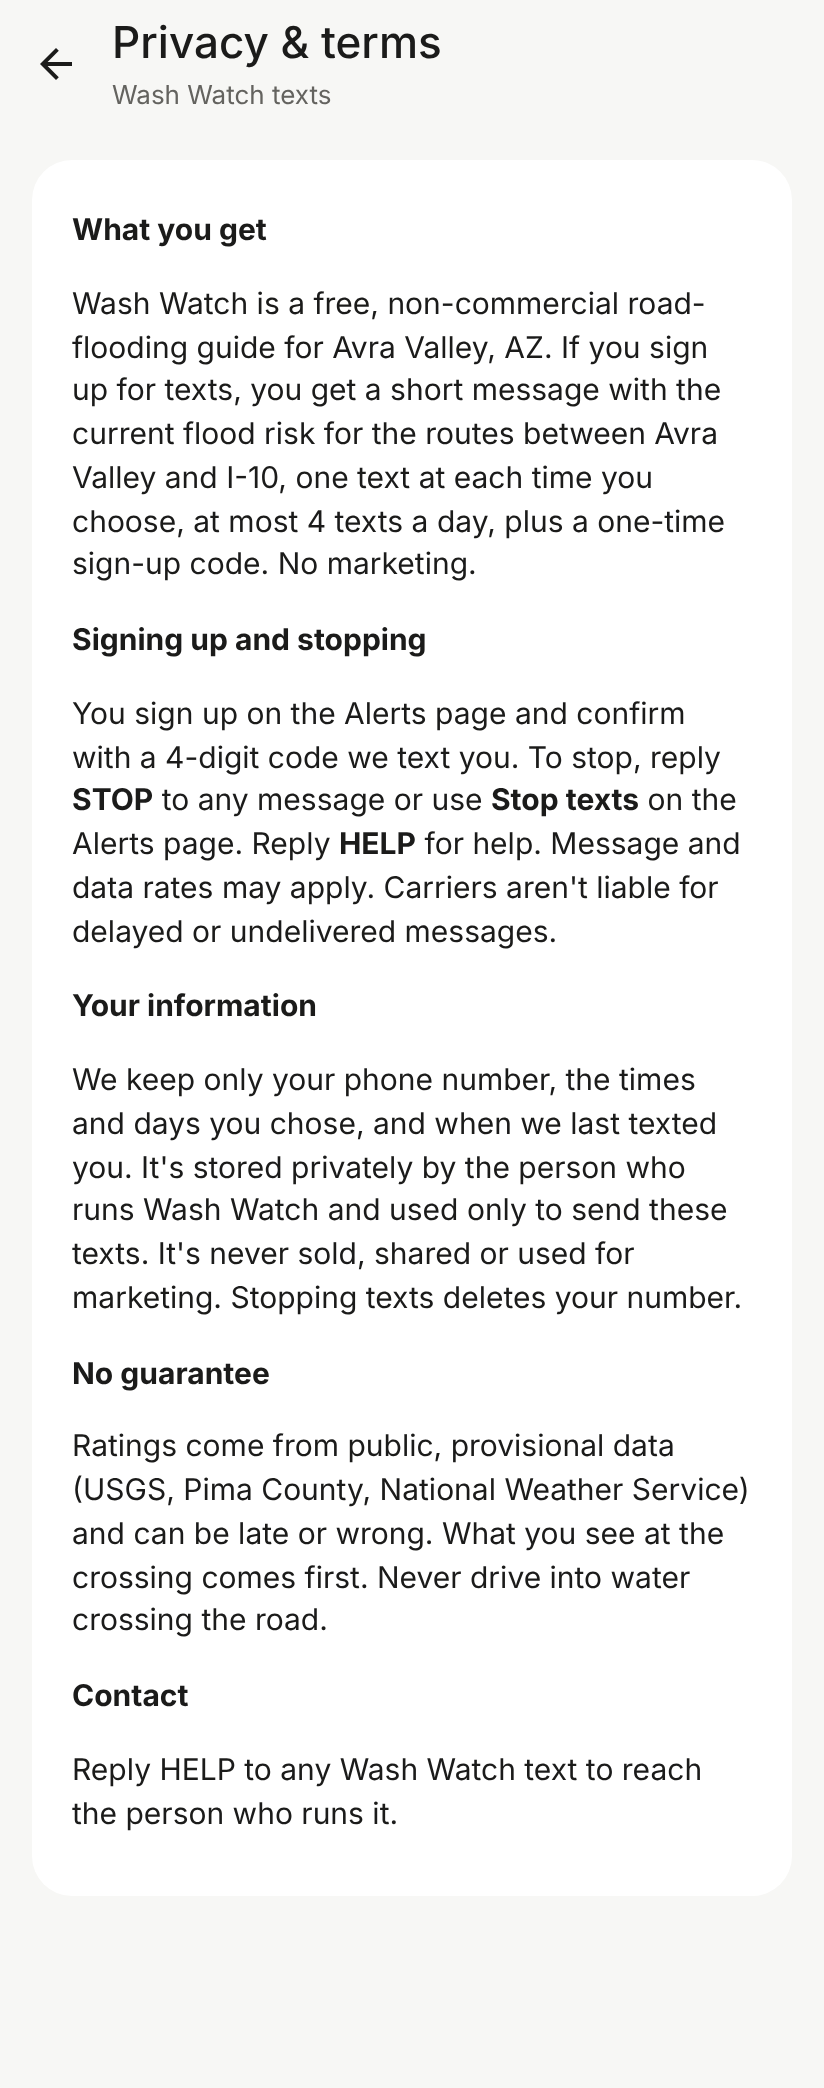
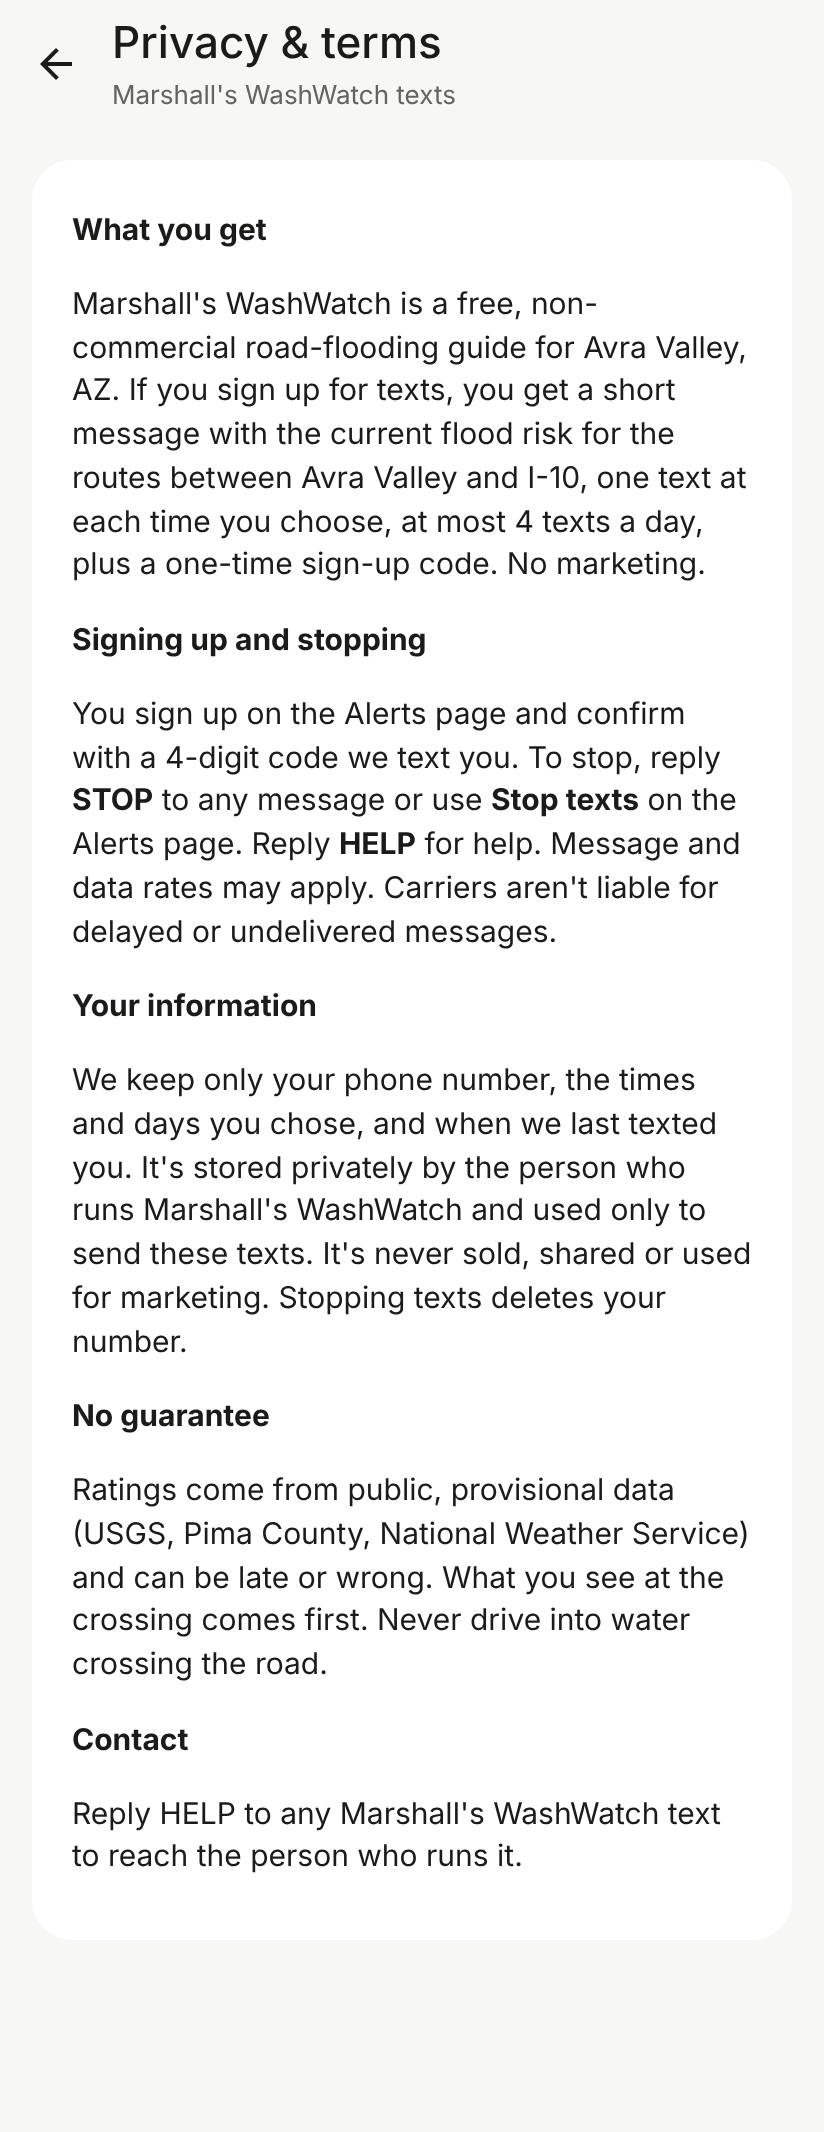
Branding: Marshall's WashWatch
Name across the page, app bar, home-screen icon (short name WashWatch),
link preview card, privacy page, opt-in wording, texts and the alert
service; refreshed the opt-in/terms screenshots at the same links.

Claude-Session: https://claude.ai/code/session_01CfS2a9avUEzEkdexREvSTC

Changed region(s): [[0.091, 0.0934, 0.9102, 0.8716], [0.1517, 0.0, 0.4248, 0.0623], [0.4854, 0.0311, 0.5461, 0.0623]]

diff --git a/public/app.js b/public/app.js
@@ -335,7 +335,7 @@ function alertsScreen() {
         ? `<p>Texts are on for ${esc(textFlow.phone)}. A confirmation text is on its way.</p>`
         : `<label class="field">Mobile number<input id="t-phone" type="tel" inputmode="tel" autocomplete="tel" placeholder="520 555 0123" value="${esc(textFlow.phone)}"></label>
            <label class="field">Access key (optional, for more than 2 texts a day)<input id="t-key" type="text" autocomplete="off" value="${esc(textFlow.key ?? '')}"></label>
-           <p class="consent">By tapping <b>Text me a code</b>, you agree to get recurring Wash Watch road-flooding texts: one text at each time you pick, at most 4 msgs/day, plus a one-time sign-up code. Msg &amp; data rates may apply. Reply STOP to cancel, HELP for help. No marketing; your number is never shared. <a href="#/privacy">Privacy &amp; terms</a></p>
+           <p class="consent">By tapping <b>Text me a code</b>, you agree to get recurring Marshall's WashWatch road-flooding texts: one text at each time you pick, at most 4 msgs/day, plus a one-time sign-up code. Msg &amp; data rates may apply. Reply STOP to cancel, HELP for help. No marketing; your number is never shared. <a href="#/privacy">Privacy &amp; terms</a></p>
            <button type="button" class="btn btn-primary" id="t-signup">Text me a code</button>
            <button type="button" class="btn btn-text" id="t-stop">Stop texts for this number</button>`;
   return `<div class="page">
@@ -363,7 +363,7 @@ function alertsScreen() {
   ${cfg.TEXT_API ? `<h3 class="section">Need more texts?</h3>
   <div class="page">
     ${textFlow.reqMsg ? `<p class="note">${esc(textFlow.reqMsg)}</p>` : ''}
-    <p>Without a key, texts are limited to 2 a day. Ask the person who runs Wash Watch for an access key:</p>
+    <p>Without a key, texts are limited to 2 a day. Ask the person who runs Marshall's WashWatch for an access key:</p>
     <label class="field">How to reach you<input id="r-contact" type="text" autocomplete="off" placeholder="Name, phone or email"></label>
     <label class="field">Message<textarea id="r-msg" rows="3" placeholder="How many texts a day, and why"></textarea></label>
     <button type="button" class="btn btn-primary" id="r-send">Send request</button>
@@ -456,7 +456,7 @@ function wireReport() {
         const r = await fetch(`https://ntfy.sh/${cfg.REPORT_TOPIC}`, { method: 'POST', body, headers: { Title: `Crossing report: ${report.crossing}` } });
         if (!r.ok) throw new Error(`HTTP ${r.status}`);
       }
-      reportMsg = 'Thanks! Sent. It goes straight to the person who runs Wash Watch.';
+      reportMsg = "Thanks! Sent. It goes straight to the person who runs Marshall's WashWatch.";
       location.replace('#/report');
     } catch (e) { reportMsg = 'Couldn’t send just now. Try again in a minute.'; }
     render();
@@ -466,15 +466,15 @@ function wireReport() {
 function privacyScreen() {
   return `<div class="page">
     <h4>What you get</h4>
-    <p>Wash Watch is a free, non-commercial road-flooding guide for Avra Valley, AZ. If you sign up for texts, you get a short message with the current flood risk for the routes between Avra Valley and I-10, one text at each time you choose, at most 4 texts a day, plus a one-time sign-up code. No marketing.</p>
+    <p>Marshall's WashWatch is a free, non-commercial road-flooding guide for Avra Valley, AZ. If you sign up for texts, you get a short message with the current flood risk for the routes between Avra Valley and I-10, one text at each time you choose, at most 4 texts a day, plus a one-time sign-up code. No marketing.</p>
     <h4>Signing up and stopping</h4>
     <p>You sign up on the Alerts page and confirm with a 4-digit code we text you. To stop, reply <b>STOP</b> to any message or use <b>Stop texts</b> on the Alerts page. Reply <b>HELP</b> for help. Message and data rates may apply. Carriers aren't liable for delayed or undelivered messages.</p>
     <h4>Your information</h4>
-    <p>We keep only your phone number, the times and days you chose, and when we last texted you. It's stored privately by the person who runs Wash Watch and used only to send these texts. It's never sold, shared or used for marketing. Stopping texts deletes your number.</p>
+    <p>We keep only your phone number, the times and days you chose, and when we last texted you. It's stored privately by the person who runs Marshall's WashWatch and used only to send these texts. It's never sold, shared or used for marketing. Stopping texts deletes your number.</p>
     <h4>No guarantee</h4>
     <p>Ratings come from public, provisional data (USGS, Pima County, National Weather Service) and can be late or wrong. What you see at the crossing comes first. Never drive into water crossing the road.</p>
     <h4>Contact</h4>
-    <p>Reply HELP to any Wash Watch text to reach the person who runs it.</p>
+    <p>Reply HELP to any Marshall's WashWatch text to reach the person who runs it.</p>
   </div>`;
 }
 function sourcesScreen() {
@@ -492,10 +492,10 @@ function render() {
   $('#logo').hidden = sub;
   $('#refresh').hidden = sub && !['route', 'stretch'].includes(w.screen);
   const titles = {
-    home: ['Wash Watch', subtitle()],
+    home: ["Marshall's WashWatch", subtitle()],
     route: [ROUTE_INFO[w.route]?.name, 'Route'],
     stretch: [view.fpResults[w.fp]?.short, ROUTE_INFO[w.route]?.name],
-    how: ['How to read this', ''], settings: ['Settings', ''], sources: ['Sources', ''], alerts: ['Alerts', 'Text or phone notification'], report: ['Help fill the gaps', 'Tell us about a crossing'], privacy: ['Privacy & terms', 'Wash Watch texts'],
+    how: ['How to read this', ''], settings: ['Settings', ''], sources: ['Sources', ''], alerts: ['Alerts', 'Text or phone notification'], report: ['Help fill the gaps', 'Tell us about a crossing'], privacy: ['Privacy & terms', "Marshall's WashWatch texts"],
   }[w.screen];
   $('#title').textContent = titles[0] ?? '';
   $('#subtitle').textContent = titles[1] ?? '';

diff --git a/public/index.html b/public/index.html
@@ -7,15 +7,15 @@
   <meta name="theme-color" content="#141414" media="(prefers-color-scheme: dark)">
   <meta name="apple-mobile-web-app-capable" content="yes">
   <meta name="mobile-web-app-capable" content="yes">
-  <title>Wash Watch</title>
+  <title>Marshall's WashWatch</title>
   <meta name="description" content="Which road between Avra Valley and I-10 has the least going against it right now: river gauges, rain gauges, county barricades and weather alerts in one place.">
   <link rel="manifest" href="manifest.webmanifest">
   <link rel="icon" href="icons/logo.svg" type="image/svg+xml">
   <link rel="icon" href="icons/icon-192.png" sizes="192x192">
   <link rel="apple-touch-icon" href="icons/apple-touch-icon.png">
-  <meta name="apple-mobile-web-app-title" content="Wash Watch">
+  <meta name="apple-mobile-web-app-title" content="WashWatch">
   <meta property="og:type" content="website">
-  <meta property="og:title" content="Wash Watch: Avra Valley ↔ I-10">
+  <meta property="og:title" content="Marshall's WashWatch: Avra Valley &amp; Picture Rocks ↔ I-10">
   <meta property="og:description" content="Which road has the least going against it right now: river gauges, rain gauges, county barricades and weather alerts in one place.">
   <meta property="og:image" content="https://godfather38.github.io/FLOODplain/icons/og-card.png">
   <meta property="og:image:width" content="1200">
@@ -31,7 +31,7 @@
     </button>
     <img id="logo" class="logo" src="icons/logo.svg" alt="" width="36" height="36">
     <div class="titles">
-      <h1 id="title">Wash Watch</h1>
+      <h1 id="title">Marshall's WashWatch</h1>
       <p id="subtitle">Avra Valley ↔ I-10</p>
     </div>
     <button id="refresh" class="icon-btn" type="button" aria-label="Check again">

diff --git a/public/engine.js b/public/engine.js
@@ -49,7 +49,7 @@ export function message(best, order, rated, missing, now, area = 'avra') {
   const name = (r) => cfg.ROUTE_INFO[r.id].name;
   const issue = (r) => { const a = againstIt(r)[0]; return a ? `${a.short}: ${a.why}` : null; };
   const text = [
-    `Wash Watch${areaName}: take ${name(best)} (${best.score}/5 ${WORD[best.score]}, ${Math.round(best.minutes)} min).`,
+    `WashWatch${areaName}: take ${name(best)} (${best.score}/5 ${WORD[best.score]}, ${Math.round(best.minutes)} min).`,
     issue(best) ? `Watch for ${issue(best)}.` : null,
     `Others: ${order.filter((r) => r !== best).map((r) => `${name(r)} ${r.score}`).join(', ')}.`,
     ...order.filter((r) => r !== best && r.score >= 4).map((r) => `${name(r)}: ${issue(r)}.`),
@@ -59,10 +59,10 @@ export function message(best, order, rated, missing, now, area = 'avra') {
   return {
     at: new Date(now).toISOString(),
     text,
-    sms: text.replace(/^Wash Watch(?: \(([^)]+)\))?: /, (m, ar) => (ar ? `${ar}: ` : '')).replace(/ https:\S+/, ''),
+    sms: text.replace(/^WashWatch(?: \(([^)]+)\))?: /, (m, ar) => (ar ? `${ar}: ` : '')).replace(/ https:\S+/, ''),
     spoken: text.replace(/ https:\S+/, '').replace(/(\d)\/5/g, '$1 out of 5').replace(/–/g, ' and '),
     off: rated.some((r) => r.score >= 2),
-    title: `Wash Watch${areaName}: ${name(best)} ${best.score}/5`,
+    title: `Marshall's WashWatch${areaName}: ${name(best)} ${best.score}/5`,
   };
 }
 

diff --git a/public/config.js b/public/config.js
@@ -1,4 +1,4 @@
-// Everything Wash Watch knows about the routes, failure points and data.
+// Everything WashWatch knows about the routes, failure points and data.
 // Plain-language definitions of each failure point: docs/FAILURE-POINTS.md
 
 export const SOURCES = {

diff --git a/README.md b/README.md
@@ -1,4 +1,4 @@
-# Wash Watch (FLOODplain)
+# Marshall's WashWatch (FLOODplain)
 
 A check of the roads between Avra Valley, AZ and I-10, either direction. It reads live USGS stream gauges at each river crossing and recommends a route. It's a hobby tool, not an official warning.
 
